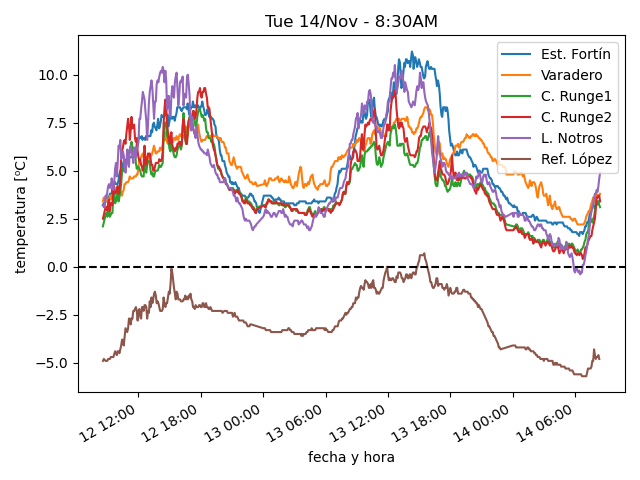
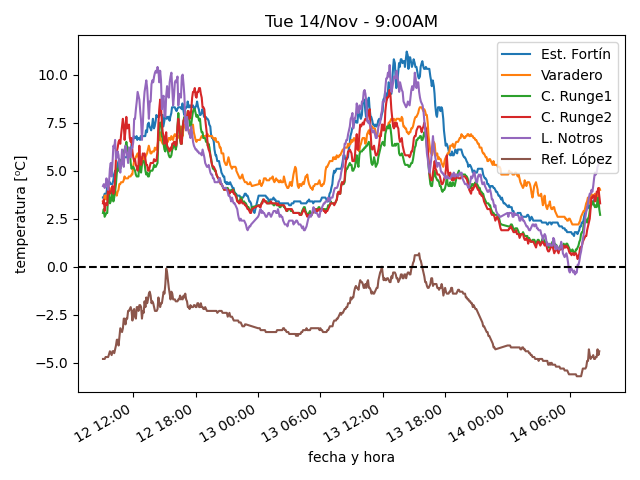
actualiza datos

diff --git a/estaciones/estacion2.html b/estaciones/estacion2.html
@@ -18,32 +18,32 @@
     </tr>
     <tr>
      <td class="stats_data">
-      8:24AM
+      8:54AM
      </td>
     </tr>
     <tr>
      <td class="stats_data">
-      3.8⁰C
+      4.0⁰C
      </td>
     </tr>
     <tr>
      <td class="stats_data">
-      -2.9⁰C
+      -1.9⁰C
      </td>
     </tr>
     <tr>
      <td class="stats_data">
-      61.8%
+      65.6%
      </td>
     </tr>
     <tr>
      <td class="stats_data">
-      1019.64hPa
+      1019.44hPa
      </td>
     </tr>
     <tr>
      <td class="stats_data">
-      7.2/10.3 km/hr WNW
+      15.0/19.1 km/hr NW
      </td>
     </tr>
     <tr>
@@ -53,12 +53,12 @@
     </tr>
     <tr>
      <td class="stats_data">
-      0.0
+      1.0
      </td>
     </tr>
     <tr>
      <td class="stats_data">
-      97.5 W/m²
+      126.1 W/m²
      </td>
     </tr>
    </tbody>

diff --git a/estaciones/estacion1.html b/estaciones/estacion1.html
@@ -18,22 +18,22 @@
     </tr>
     <tr>
      <td class="stats_data">
-      8:14AM
+      8:38AM
      </td>
     </tr>
     <tr>
      <td class="stats_data">
-      3.4⁰C
+      3.8⁰C
      </td>
     </tr>
     <tr>
      <td class="stats_data">
-      -4.0⁰C
+      -3.6⁰C
      </td>
     </tr>
     <tr>
      <td class="stats_data">
-      58.7%
+      58.5%
      </td>
     </tr>
     <tr>
@@ -43,7 +43,7 @@
     </tr>
     <tr>
      <td class="stats_data">
-      18.9/34.3 km/hr WSW
+      20.2/33.0 km/hr WNW
      </td>
     </tr>
     <tr>
@@ -53,12 +53,12 @@
     </tr>
     <tr>
      <td class="stats_data">
-      0.6
+      1.0
      </td>
     </tr>
     <tr>
      <td class="stats_data">
-      343.0 W/m²
+      446.0 W/m²
      </td>
     </tr>
    </tbody>

diff --git a/estaciones/estacion4.html b/estaciones/estacion4.html
@@ -18,12 +18,12 @@
     </tr>
     <tr>
      <td class="stats_data">
-      8:24AM
+      8:54AM
      </td>
     </tr>
     <tr>
      <td class="stats_data">
-      3.4⁰C
+      3.3⁰C
      </td>
     </tr>
     <tr>
@@ -33,17 +33,17 @@
     </tr>
     <tr>
      <td class="stats_data">
-      55.9%
+      56.3%
      </td>
     </tr>
     <tr>
      <td class="stats_data">
-      1013.24hPa
+      1013.14hPa
      </td>
     </tr>
     <tr>
      <td class="stats_data">
-      0.2/0.5 km/hr SW
+      0.7/1.3 km/hr S
      </td>
     </tr>
     <tr>
@@ -53,12 +53,12 @@
     </tr>
     <tr>
      <td class="stats_data">
-      2.0
+      1.0
      </td>
     </tr>
     <tr>
      <td class="stats_data">
-      302.9 W/m²
+      174.6 W/m²
      </td>
     </tr>
    </tbody>

diff --git a/estaciones/estacion3.html b/estaciones/estacion3.html
@@ -18,22 +18,22 @@
     </tr>
     <tr>
      <td class="stats_data">
-      8:24AM
+      8:54AM
      </td>
     </tr>
     <tr>
      <td class="stats_data">
-      3.1⁰C
+      2.7⁰C
      </td>
     </tr>
     <tr>
      <td class="stats_data">
-      -3.8⁰C
+      -4.1⁰C
      </td>
     </tr>
     <tr>
      <td class="stats_data">
-      60.5%
+      60.9%
      </td>
     </tr>
     <tr>
@@ -43,7 +43,7 @@
     </tr>
     <tr>
      <td class="stats_data">
-      1.5/2.1 km/hr WSW
+      2.7/3.5 km/hr WSW
      </td>
     </tr>
     <tr>
@@ -53,12 +53,12 @@
     </tr>
     <tr>
      <td class="stats_data">
-      3.0
+      2.0
      </td>
     </tr>
     <tr>
      <td class="stats_data">
-      304.0 W/m²
+      178.6 W/m²
      </td>
     </tr>
    </tbody>

diff --git a/estaciones/estacion6.html b/estaciones/estacion6.html
@@ -18,27 +18,27 @@
     </tr>
     <tr>
      <td class="stats_data">
-      8:20AM
+      8:50AM
      </td>
     </tr>
     <tr>
      <td class="stats_data">
-      -4.8⁰C
+      -4.4⁰C
      </td>
     </tr>
     <tr>
      <td class="stats_data">
-      -7.4⁰C
+      -6.5⁰C
      </td>
     </tr>
     <tr>
      <td class="stats_data">
-      82.0%
+      85.0%
      </td>
     </tr>
     <tr>
      <td class="stats_data">
-      1016.29hPa
+      1016.56hPa
      </td>
     </tr>
     <tr>
@@ -58,7 +58,7 @@
     </tr>
     <tr>
      <td class="stats_data">
-      910.0 W/m²
+      906.0 W/m²
      </td>
     </tr>
    </tbody>

diff --git a/estaciones/estacion5.html b/estaciones/estacion5.html
@@ -18,32 +18,32 @@
     </tr>
     <tr>
      <td class="stats_data">
-      8:25AM
+      8:50AM
      </td>
     </tr>
     <tr>
      <td class="stats_data">
-      4.9⁰C
+      5.6⁰C
      </td>
     </tr>
     <tr>
      <td class="stats_data">
-      -3.0⁰C
+      -2.9⁰C
      </td>
     </tr>
     <tr>
      <td class="stats_data">
-      57.0%
+      54.0%
      </td>
     </tr>
     <tr>
      <td class="stats_data">
-      1016.59hPa
+      1016.26hPa
      </td>
     </tr>
     <tr>
      <td class="stats_data">
-      0.0/2.6 km/hr N
+      0.0/6.1 km/hr N
      </td>
     </tr>
     <tr>
